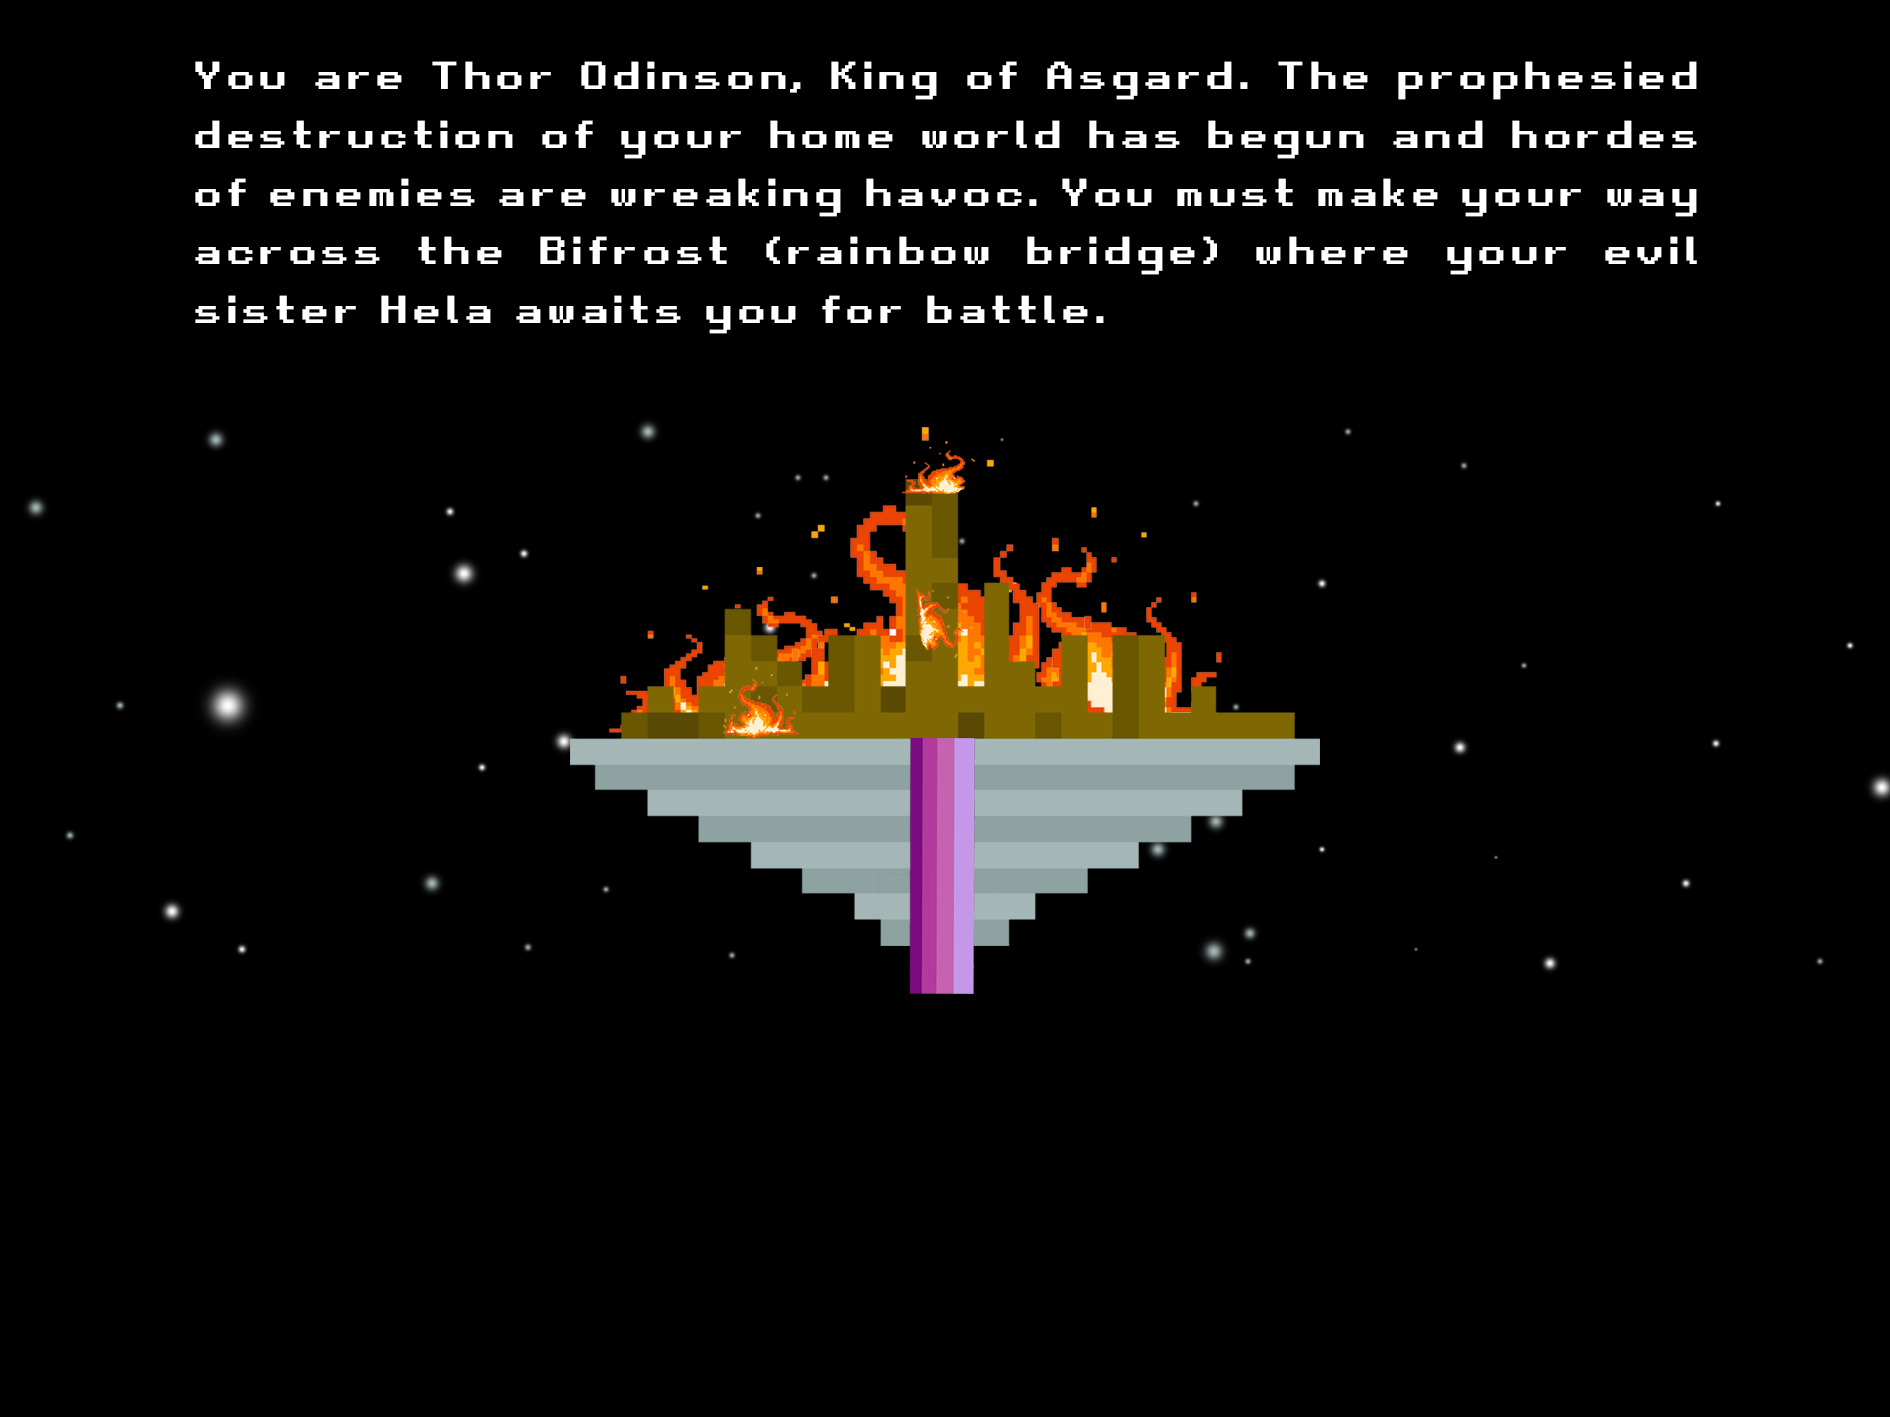
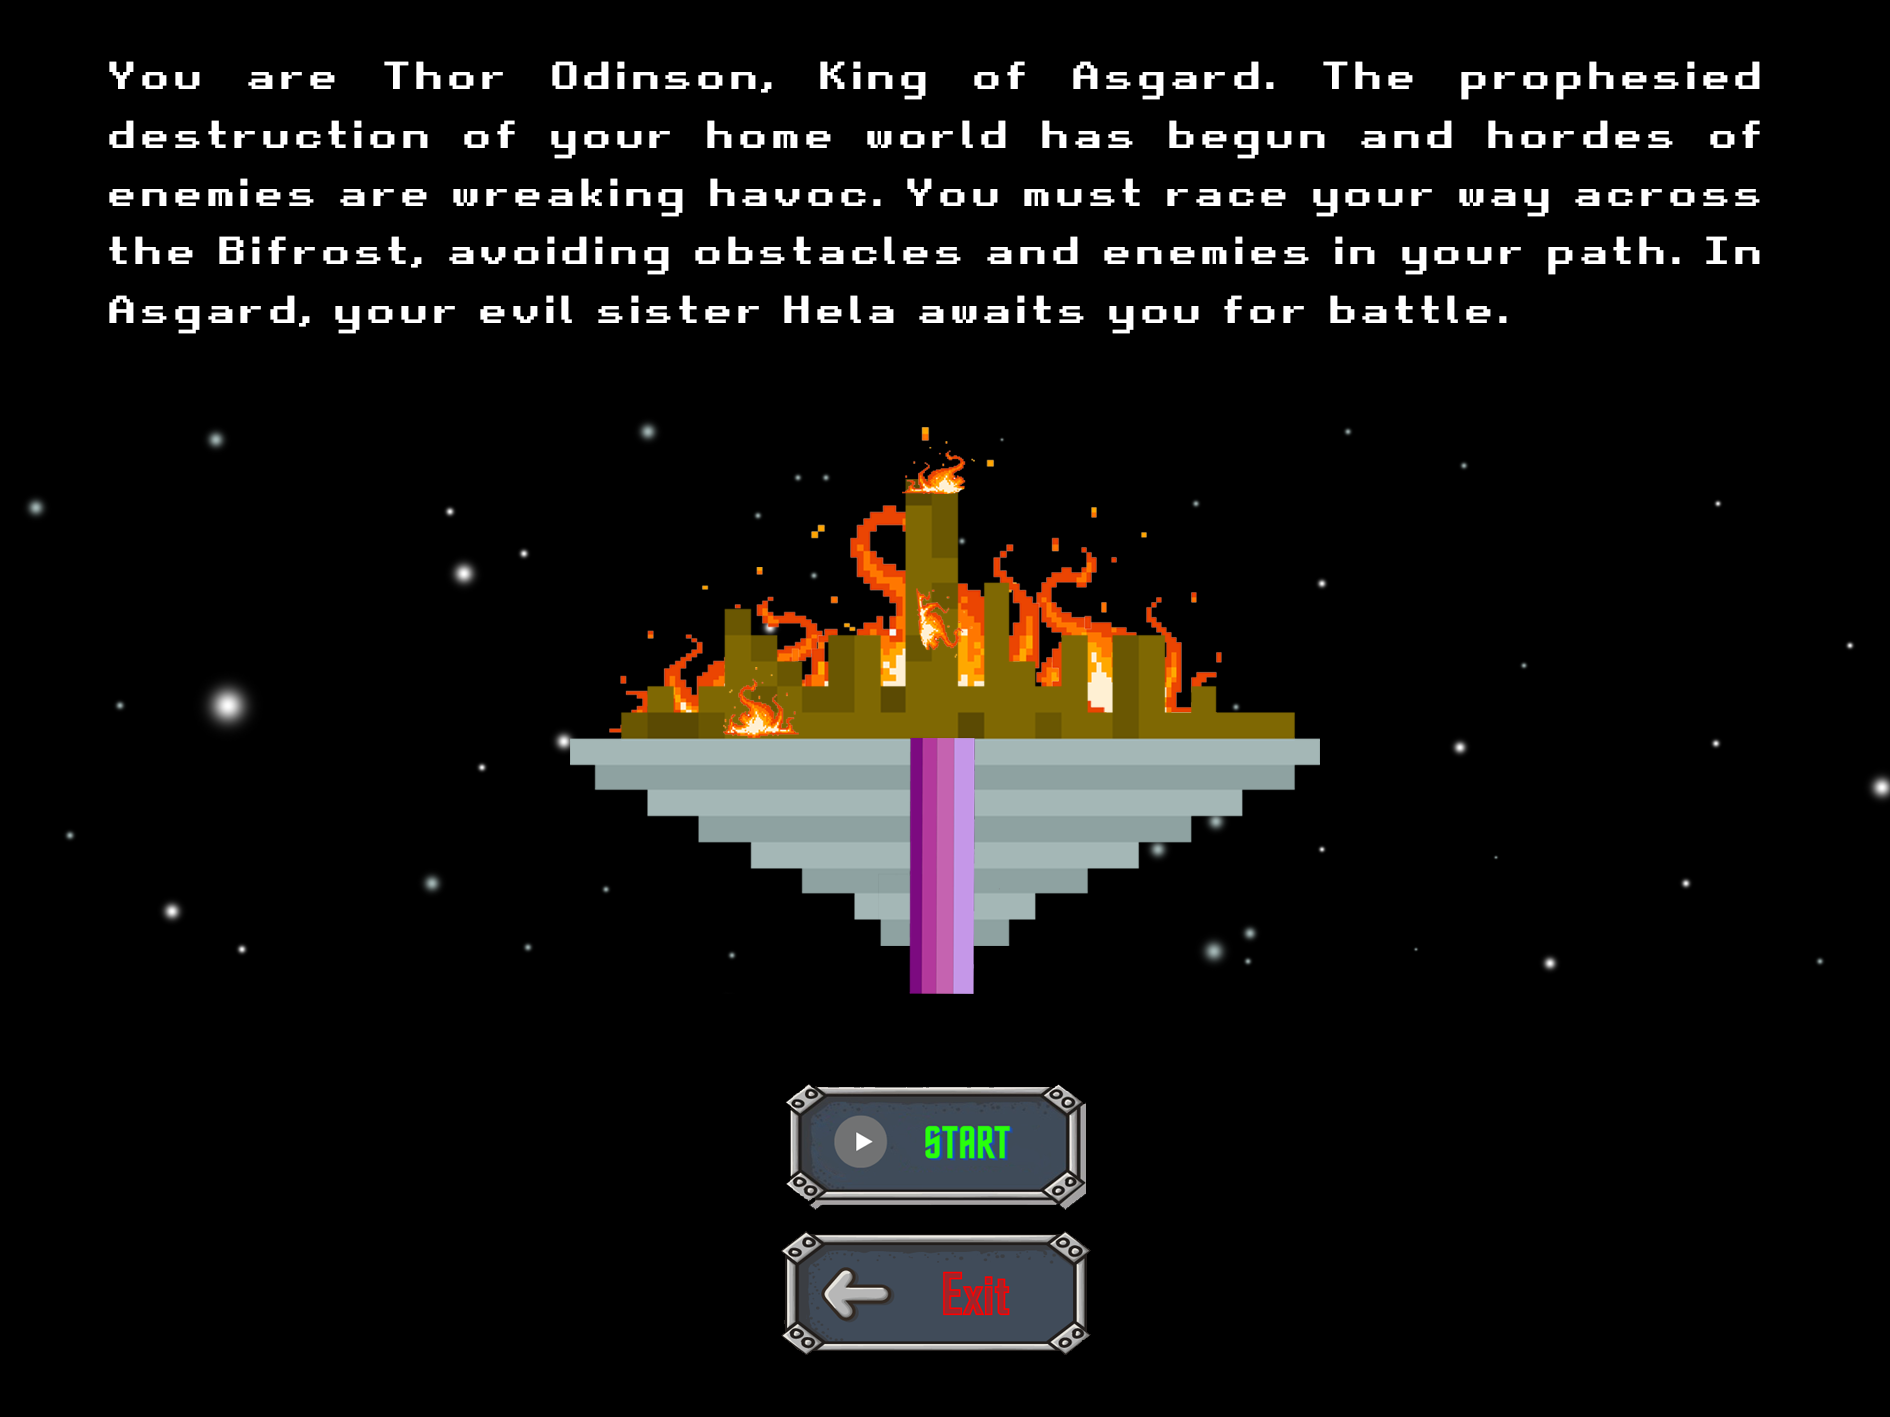
updated story screen

Changed region(s): [[0.0624, 0.0311, 0.9365, 0.2484], [0.4058, 0.7452, 0.5931, 0.9626]]

diff --git a/source/core/src/main/com/deco2800/game/screens/GameStoryScreen.java b/source/core/src/main/com/deco2800/game/screens/GameStoryScreen.java
@@ -14,9 +14,10 @@ import com.deco2800.game.rendering.RenderService;
 import com.deco2800.game.rendering.Renderer;
 import com.deco2800.game.services.ResourceService;
 import com.deco2800.game.services.ServiceLocator;
+import com.deco2800.game.services.GameTime;
 import org.slf4j.Logger;
 import org.slf4j.LoggerFactory;
-
+import static com.deco2800.game.GdxGame.ScreenType.MAIN_GAME;
 /**
  * The game screen containing the game's story.
  */
@@ -24,17 +25,19 @@ public class GameStoryScreen extends ScreenAdapter {
     private static final Logger logger = LoggerFactory.getLogger(GameStoryScreen.class);
     private final GdxGame game;
     private final Renderer renderer;
+    private final long gameTimer;
     private static final String[] storyScreenTextures = {"images/story-screen-bg.png"};
 
     public GameStoryScreen(GdxGame game) {
         this.game = game;
-
+        this.gameTimer = 15000;
         logger.debug("Initialising story screen services");
+        ServiceLocator.registerTimeSource(new GameTime());
         ServiceLocator.registerInputService(new InputService());
         ServiceLocator.registerResourceService(new ResourceService());
         ServiceLocator.registerEntityService(new EntityService());
         ServiceLocator.registerRenderService(new RenderService());
-
+        ServiceLocator.registerTimeSource(new GameTime());
         renderer = RenderFactory.createRenderer();
 
         loadAssets();
@@ -43,6 +46,10 @@ public class GameStoryScreen extends ScreenAdapter {
 
     @Override
     public void render(float delta) {
+        if (ServiceLocator.getTimeSource().getTime() >= this.gameTimer) {
+            game.setScreen(MAIN_GAME);
+            // Switch to new MAIN game screen
+        }
         ServiceLocator.getEntityService().update();
         renderer.render();
     }

diff --git a/source/core/src/main/com/deco2800/game/components/gamestory/GameStoryActions.java b/source/core/src/main/com/deco2800/game/components/gamestory/GameStoryActions.java
@@ -6,6 +6,7 @@ import com.deco2800.game.services.ServiceLocator;
 import org.slf4j.Logger;
 import org.slf4j.LoggerFactory;
 
+import static com.deco2800.game.GdxGame.ScreenType.MAIN_GAME;
 import static com.deco2800.game.GdxGame.ScreenType.MAIN_MENU;
 
 public class GameStoryActions extends Component {
@@ -27,7 +28,7 @@ public class GameStoryActions extends Component {
      */
     private void onStart() {
         logger.info("Start game");
-        game.setScreen(GdxGame.ScreenType.MAIN_GAME);
+        game.setScreen(MAIN_GAME);
     }
 
     /**
@@ -35,7 +36,6 @@ public class GameStoryActions extends Component {
      */
     private void onExit() {
         logger.info("Exiting main game screen");
-        ServiceLocator.clear();
         game.setScreen(MAIN_MENU);
     }
 }
